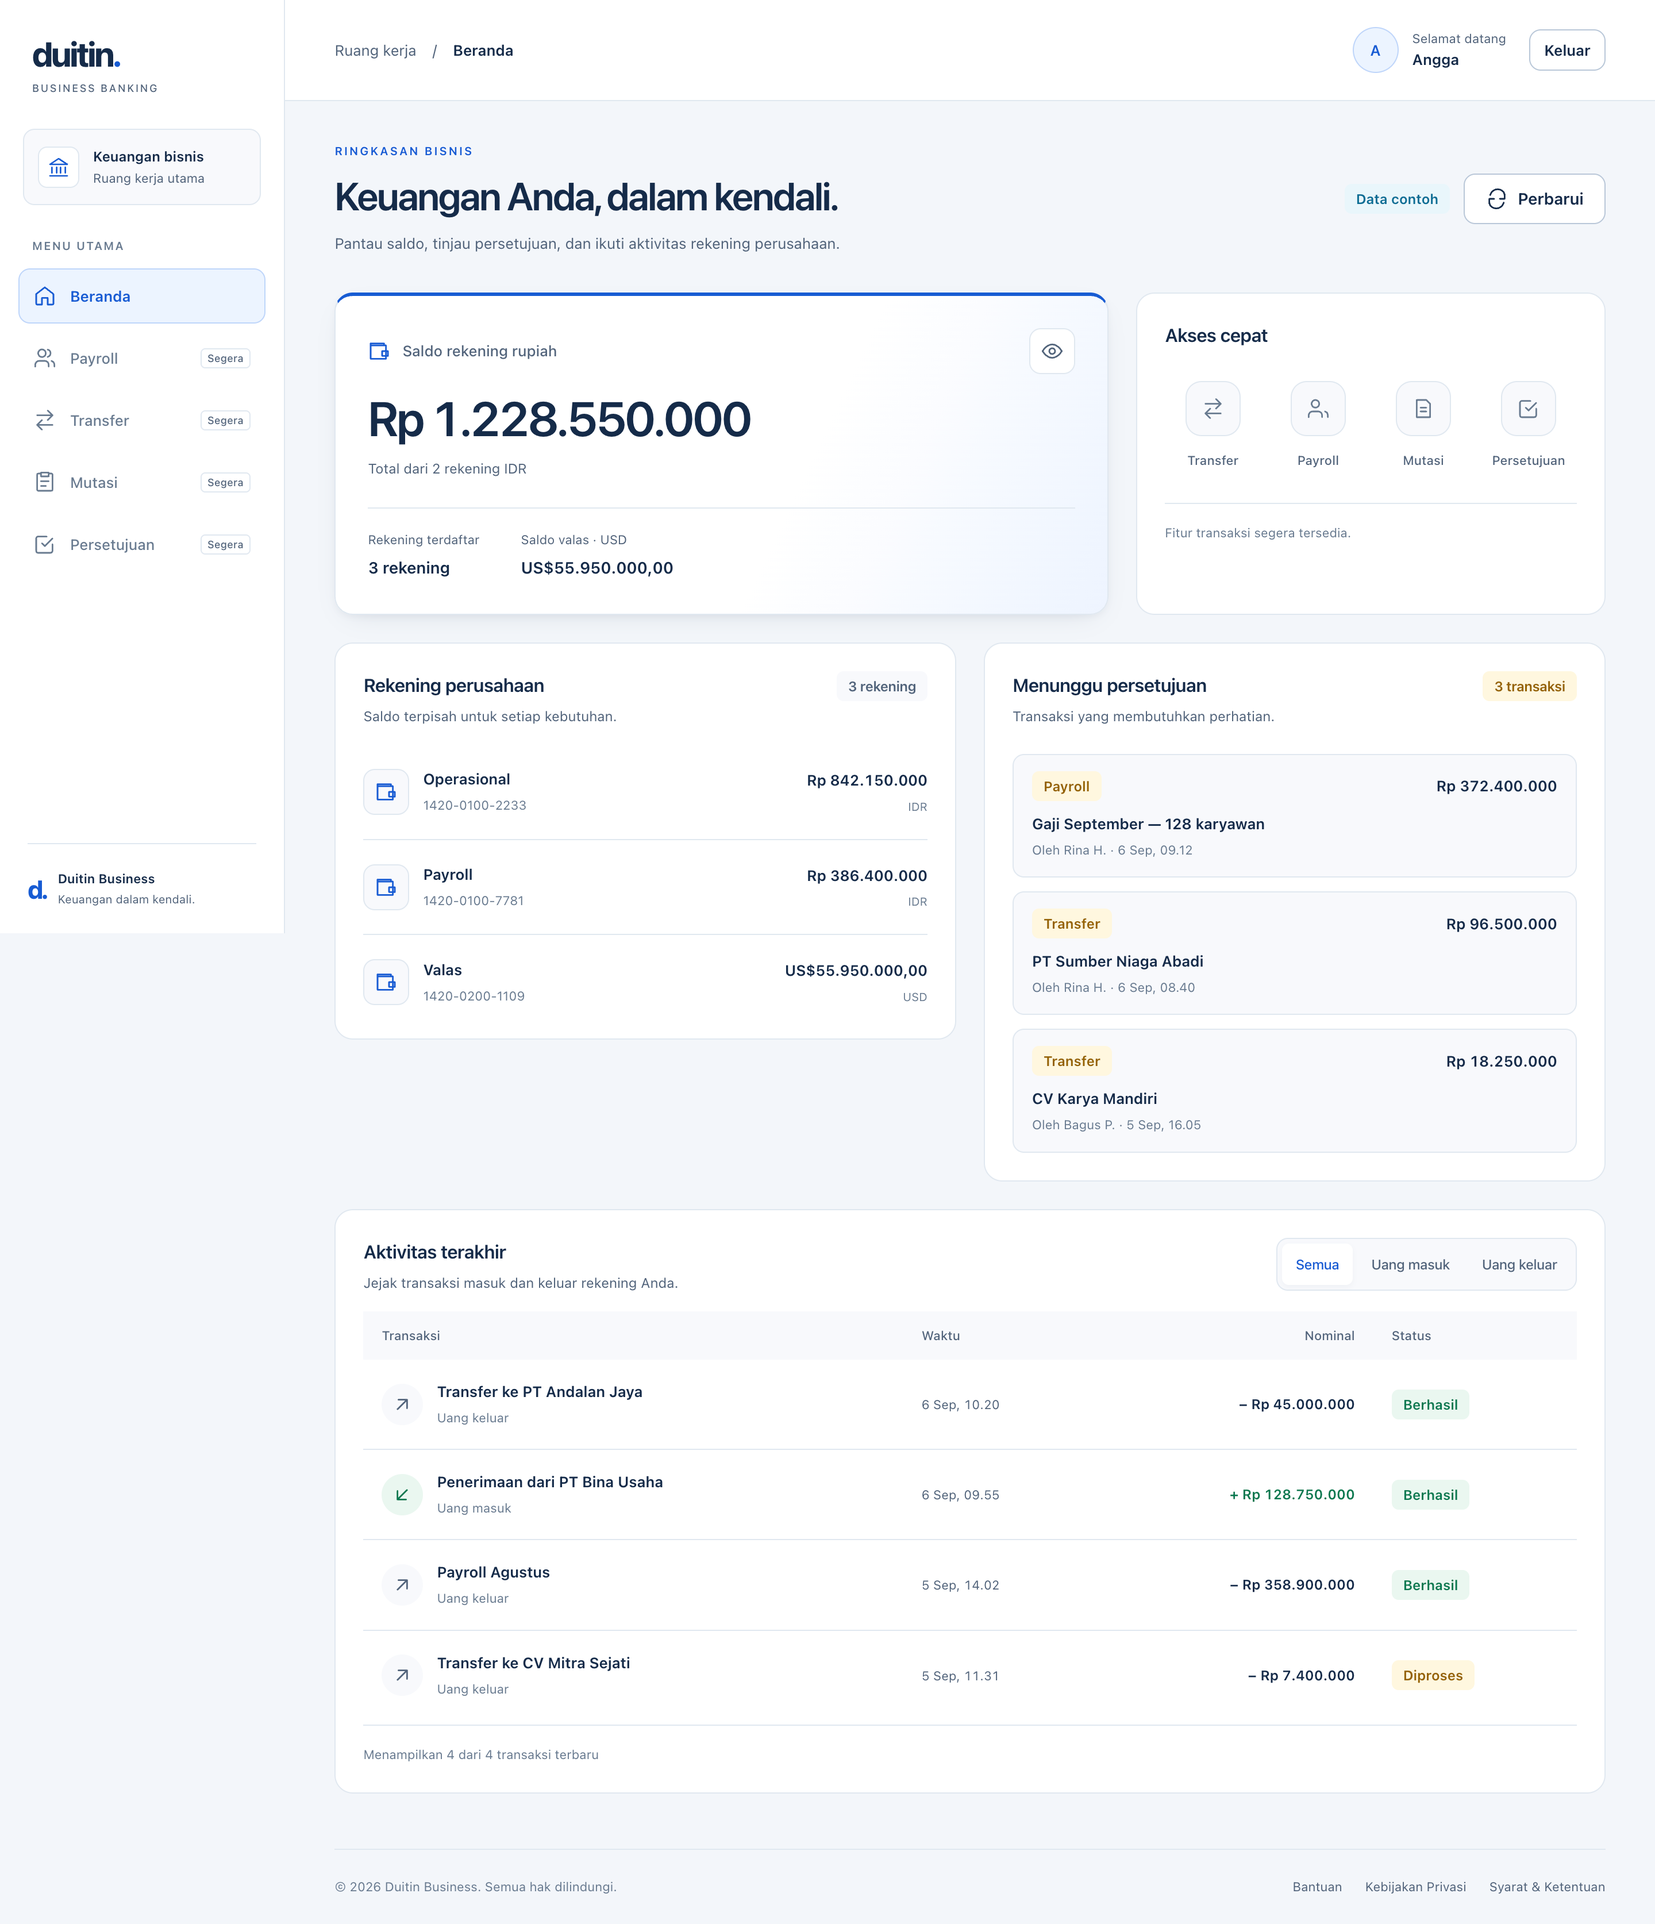
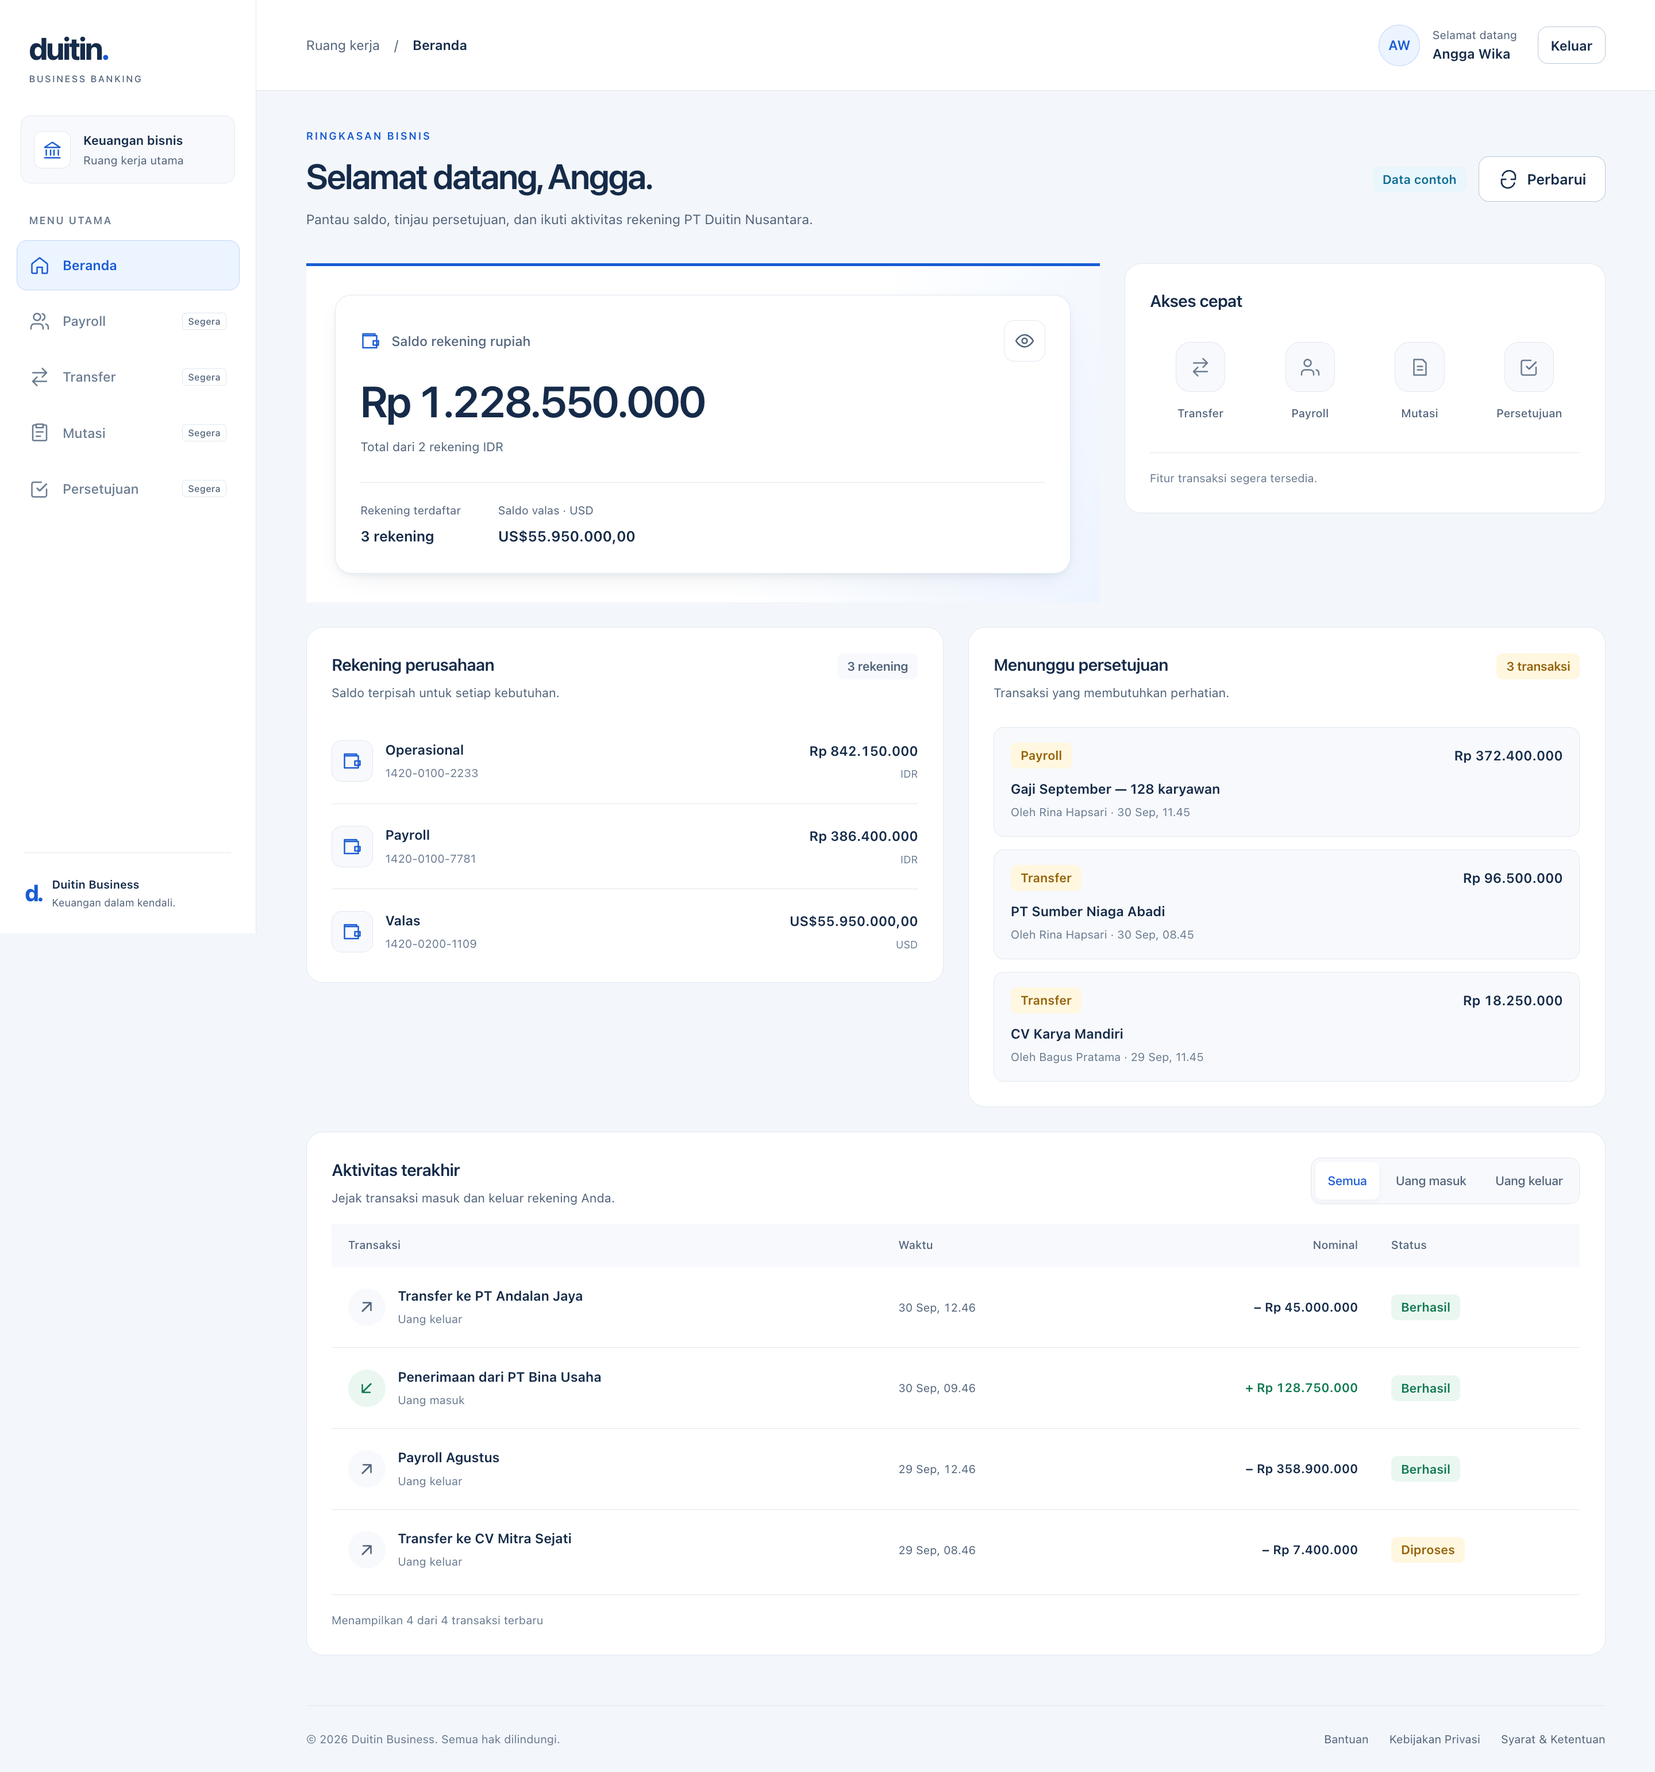
readme

diff --git a/duidtin-ui/README.md b/duidtin-ui/README.md
@@ -177,7 +177,7 @@ Verified in a browser with four local servers (host, layout, design system, auth
 
 ## Architecture flow
 
-Four phases that run at **different times**. The easiest confusion: PHASE 2 and PHASE 3 both run on every navigation, but only PHASE 3 puts anything on screen.
+Five phases that run at **different times**. The two easiest to confuse: PHASE 2 and PHASE 3 both run on every navigation, but only PHASE 3 puts anything on screen. And PHASE 0 runs long before the browser is involved — anything decided there needs a redeploy to change.
 
 ```
 PHASE 0  Build time         → once, during `next build`
@@ -186,6 +186,44 @@ PHASE 2  Per-route preload   → on every navigation (warm-up, NOT render)
 PHASE 3  The actual render   → on every navigation (THIS is what appears on screen)
 PHASE 4  Error handling      → any time something fails, in any phase
 ```
+
+### PHASE 0 — Build time (`next.config.mjs` → `module-federation.config.mjs`)
+
+What is decided here **cannot be changed without a redeploy**. Four things get locked into the bundle:
+
+```
+bun run build
+  │
+  ├─▶ prebuild: (cd ../duidtin-packages/auth && bun install && bun run build) && bun install
+  │     @duidtin/auth is installed through `file:`, and its `dist/` is not in git
+  │     → it must be built FIRST, or the host build fails to resolve the import
+  │
+  └─▶ next build
+        ├─▶ rewrites()              reads REMOTE_*_URL → the proxy rules are WRITTEN into the bundle
+        │     env empty → the rule is never created → that path 404s
+        │
+        ├─▶ NEXT_PUBLIC_API_URL     baked into the configureAuth() call in _app.tsx
+        │
+        ├─▶ resolve.alias           react + react-dom → the HOST's node_modules, for every requester
+        │     without it: "Can't resolve 'react' in …/duidtin-packages/auth/node_modules/zustand/esm"
+        │
+        └─▶ NextFederationPlugin(federationConfig)
+              name: "duidtin_ui" · filename: "static/chunks/remoteEntry.js"
+              remotes: {}   ← EMPTY, resolved in PHASE 1
+              exposes: {}   ← permanently empty, the host is only a consumer
+              shared:  {}   ← nextjs-mf already shares react/react-dom/next on its own
+```
+
+Three consequences that bite often:
+
+| What changed | Is a restart enough? |
+|---|---|
+| `REMOTE_*_URL` | ❌ **redeploy** — rewrites are locked at build time |
+| `NEXT_PUBLIC_API_URL` | ❌ **redeploy** — the value is baked into `configureAuth()` |
+| The remote list in `registry.ts` | ❌ redeploy too, but not because of MF: it is ordinary code that gets bundled |
+| A remote's URL during dev (`?remote-lokal`) | ✅ runtime, kept in `localStorage` — that is what layer B in PHASE 1 is for |
+
+That empty `remotes: {}` is what makes the last row possible: if the remote list lived in this config, adding one remote would mean rebuilding the host. Because it is empty, the list is decided by ordinary JS in PHASE 1 — and that code is free to read `window.location`, `localStorage`, anything, at the moment the page opens.
 
 ### PHASE 1 — Boot (`pages/_app.tsx` → `services/federation/init.ts`)
 
@@ -951,8 +989,11 @@ Browser opens "/"
                           │       → { default: ƒ }
                           │     normalised into { default: ComponentType }
                           │
-                          └─▶ <HomePage />  containing <Card> and <Button>
-                                └─ each remote component mounts → its own loader runs
+                          └─▶ <HomePage /> → <RemoteMount modul="duidtin_feature_beranda/base" />
+                                ├─ (on MOUNT) the loader runs inside useEffect:
+                                │     loadRemote("duidtin_feature_beranda/base")
+                                │       → { mount: ƒ }        ← a FUNCTION, not a component
+                                └─ mount(<div>) → a Vue app is mounted; its contents belong to the remote
 ```
 
 This is the phase that **actually puts components on screen**, and it is **entirely independent of `registry.ts`** — the strings are written by hand, one page file at a time.

diff --git a/README.id.md b/README.id.md
@@ -148,22 +148,23 @@ tab lain
 | auth | `https://super-apps-duidtin-feature-auth.vercel.app` | `/login` di host sudah merender formnya |
 | api | `https://super-apps-duidtin-api-eta.vercel.app` | `/health` → `db: "terhubung"`, login 200 |
 
-Yang masih menggantung: `NEXT_PUBLIC_API_URL` belum diisi di project host dan auth, jadi halaman login produksi masih menembak `http://localhost:4000`.
+Yang masih menggantung: `REMOTE_BERANDA_URL` belum diisi di project host, jadi `/beranda/*` menjawab 404 dan beranda tidak muncul di produksi. Rewrite dikunci saat build, jadi mengisi env-nya harus diikuti redeploy host.
 
 ### Topologi: satu domain, dibedakan path
 
 ```
 https://super-apps-duidtin.vercel.app/                                  → project host
 https://super-apps-duidtin.vercel.app/layout/_next/static/…             → project layout
-https://super-apps-duidtin.vercel.app/beranda/_next/static/…            → project beranda
+https://super-apps-duidtin.vercel.app/beranda/static/…                  → project beranda (Rsbuild, tanpa _next)
 https://super-apps-duidtin.vercel.app/design-system/static/…            → project design-system
 https://super-apps-duidtin.vercel.app/auth/_next/static/…               → project auth
 ```
 
 **Backend TIDAK ikut pola ini.** `duidtin-api` diakses langsung ke domainnya sendiri
 (`https://super-apps-duidtin-api-eta.vercel.app`), bukan lewat rewrite `/api`. Konsekuensinya
-dua: URL-nya diisi lewat env `NEXT_PUBLIC_API_URL` di tiap bundle yang memanggilnya, dan
-origin host harus terdaftar di `CORS_ORIGINS` milik API.
+dua: URL-nya diisi lewat env di tiap bundle yang memanggilnya (`NEXT_PUBLIC_API_URL` di repo
+Next, `PUBLIC_API_URL` di repo Rsbuild), dan origin host harus terdaftar di `CORS_ORIGINS`
+milik API.
 
 Topologi ini **sudah dikunci oleh kode**, bukan pilihan bebas. Di ketiga repo Next, `getBaseFederationUrl()` memulangkan `window.location.origin` saat bukan localhost, jadi di produksi host mencari semua remote di domain yang sama dengan dirinya. Kalau tiap remote dipublish ke domainnya sendiri, host langsung rusak.
 
@@ -177,7 +178,7 @@ Satu origin juga yang membuat sesi sederhana: `localStorage` otomatis dipakai be
 | `REMOTE_LAYOUT_URL` | URL `*.vercel.app` layout | `/layout/:path*` → `…/layout/:path*` |
 | `REMOTE_BERANDA_URL` | URL `*.vercel.app` beranda | `/beranda/:path*` → `…/beranda/:path*` |
 | `REMOTE_AUTH_URL` | `duidtin-feature-auth` | `/auth/:path*` → `…/auth/:path*` |
-| `NEXT_PUBLIC_API_URL` | URL `duidtin-api` | **tanpa rewrite** — dibaca `configureAuth()` di bundle host. Remote yang memanggil API mengisinya sendiri juga (`duidtin-feature-auth`) |
+| `NEXT_PUBLIC_API_URL` | URL `duidtin-api` | **tanpa rewrite** — dibaca `configureAuth()` di bundle host. Tiap remote yang memanggil API mengisinya sendiri: `duidtin-feature-auth` memakai nama yang sama, `duidtin-feature-beranda` memakai **`PUBLIC_API_URL`** karena bundler-nya Rsbuild, bukan Next |
 
 - **Design-system membuang prefiksnya**, karena bukan Next dan tanpa `basePath`: berkasnya ada di root domain Vercel-nya. Layout dan beranda tetap membawa prefiks.
 - **Dev lokal:** env kosong → rewrites tidak aktif → remote diakses langsung lewat port masing-masing.
@@ -300,9 +301,9 @@ Keadaan tiap bagian sekarang:
 |---|---|---|
 | host, layout, design-system | ✅ | ✅ live |
 | remote auth | ✅ login + modal sesi berakhir | ✅ live, `/login` di host sudah merender formnya |
-| beranda | ✅ tampilan, **data masih mock** | ⚠ `REMOTE_BERANDA_URL` belum benar → `/beranda/*` 404 |
-| `duidtin-api` | ✅ auth lengkap, endpoint data belum ada | ✅ live, `/health` → `db: "terhubung"` |
-| sambungan FE → API | — | ⚠ `NEXT_PUBLIC_API_URL` belum diisi di host & auth → login produksi masih ke `localhost:4000` |
+| beranda | ✅ Vue, **data dari `duidtin-api`** | ⚠ project-nya live, tapi `REMOTE_BERANDA_URL` di host belum diisi → `/beranda/*` 404 |
+| `duidtin-api` | ✅ auth + data beranda (`rekening`, `persetujuan`, `aktivitas`) | ✅ live, `/health` → `db: "terhubung"` |
+| sambungan FE → API | — | ✅ host, auth, dan beranda sudah menunjuk API produksi (dicek langsung di bundle-nya) |
 
 ## Alur Arsitektur
 

diff --git a/duidtin-ui/README.id.md b/duidtin-ui/README.id.md
@@ -177,7 +177,7 @@ Terverifikasi di browser dengan empat server lokal (host, layout, design-system,
 
 ## Alur Arsitektur
 
-Empat fase yang jalan di **waktu berbeda**. Yang paling gampang ketuker: FASE 2 dan FASE 3 sama-sama jalan tiap pindah halaman, tapi cuma FASE 3 yang naruh komponen ke layar.
+Lima fase yang jalan di **waktu berbeda**. Dua yang paling gampang ketuker: FASE 2 dan FASE 3 sama-sama jalan tiap pindah halaman, tapi cuma FASE 3 yang naruh komponen ke layar. Dan FASE 0 jalan jauh sebelum browser terlibat — apa pun yang diputuskan di sana butuh deploy ulang untuk diubah.
 
 ```
 FASE 0  Build time         → sekali, saat `next build`
@@ -186,6 +186,44 @@ FASE 2  Preload per route   → tiap pindah halaman (warm-up, BUKAN render)
 FASE 3  Render sebenarnya   → tiap pindah halaman (INI yang muncul di layar)
 FASE 4  Error handling      → kapan aja, kalau ada yang gagal di fase manapun
 ```
+
+### FASE 0 — Build time (`next.config.mjs` → `module-federation.config.mjs`)
+
+Yang diputuskan di sini **tidak bisa diubah tanpa deploy ulang**. Empat hal ikut terkunci ke dalam bundle:
+
+```
+bun run build
+  │
+  ├─▶ prebuild: (cd ../duidtin-packages/auth && bun install && bun run build) && bun install
+  │     @duidtin/auth dipasang lewat `file:`, dan `dist/`-nya tidak masuk git
+  │     → harus dibangun DULU, kalau tidak import-nya gagal saat build host
+  │
+  └─▶ next build
+        ├─▶ rewrites()              baca REMOTE_*_URL → aturan proxy DITULIS ke bundle
+        │     env kosong → aturannya tidak dibuat sama sekali → path itu 404
+        │
+        ├─▶ NEXT_PUBLIC_API_URL     ditanam ke pemanggilan configureAuth() di _app.tsx
+        │
+        ├─▶ resolve.alias           react + react-dom → node_modules HOST, siapa pun yang minta
+        │     tanpa ini: "Can't resolve 'react' in …/duidtin-packages/auth/node_modules/zustand/esm"
+        │
+        └─▶ NextFederationPlugin(federationConfig)
+              name: "duidtin_ui" · filename: "static/chunks/remoteEntry.js"
+              remotes: {}   ← KOSONG, di-resolve FASE 1
+              exposes: {}   ← KOSONG permanen, host cuma consumer
+              shared:  {}   ← nextjs-mf sudah otomatis share react/react-dom/next
+```
+
+Tiga akibat yang sering menggigit:
+
+| Yang diubah | Cukup restart? |
+|---|---|
+| `REMOTE_*_URL` | ❌ **redeploy** — rewrite dikunci saat build |
+| `NEXT_PUBLIC_API_URL` | ❌ **redeploy** — nilainya ke-bake di `configureAuth()` |
+| Daftar remote di `registry.ts` | ❌ redeploy juga, tapi bukan karena MF: isinya kode biasa yang ikut ter-bundle |
+| URL remote saat dev (`?remote-lokal`) | ✅ runtime, disimpan di `localStorage` — itu gunanya lapis B di FASE 1 |
+
+`remotes: {}` yang kosong itulah yang membuat perbedaan terakhir mungkin: kalau daftar remote ditulis di config ini, menambah satu remote berarti rebuild host. Karena kosong, yang menentukan cuma kode JS biasa di FASE 1 — dan kode itu boleh membaca `window.location`, `localStorage`, apa pun, saat halaman dibuka.
 
 ### FASE 1 — Boot (`pages/_app.tsx` → `services/federation/init.ts`)
 
@@ -963,8 +1001,11 @@ Browser buka "/"
                           │       → { default: ƒ }
                           │     dinormalkan jadi { default: ComponentType }
                           │
-                          └─▶ <HomePage />  di dalamnya ada <Card> <Button>
-                                └─ tiap komponen remote mount → loader-nya sendiri jalan
+                          └─▶ <HomePage /> → <RemoteMount modul="duidtin_feature_beranda/base" />
+                                ├─ (saat MOUNT) loader jalan di dalam useEffect:
+                                │     loadRemote("duidtin_feature_beranda/base")
+                                │       → { mount: ƒ }        ← FUNGSI, bukan komponen
+                                └─ mount(<div>) → app Vue dipasang; isinya milik remote
 ```
 
 Ini fase yang **beneran naruh komponen ke layar**, dan dia **total independen dari `registry.ts`** — string-nya ditulis manual per file halaman.

diff --git a/README.md b/README.md
@@ -148,22 +148,23 @@ other tabs
 | auth | `https://super-apps-duidtin-feature-auth.vercel.app` | the host's `/login` already renders its form |
 | api | `https://super-apps-duidtin-api-eta.vercel.app` | `/health` → `db: "terhubung"`, login 200 |
 
-Still outstanding: `NEXT_PUBLIC_API_URL` is not set on the host and auth projects, so the production login page still calls `http://localhost:4000`.
+Still outstanding: `REMOTE_BERANDA_URL` is not set on the host project, so `/beranda/*` answers 404 and the home page never appears in production. Rewrites are baked at build time, so setting the env must be followed by a host redeploy.
 
 ### Topology: one domain, told apart by path
 
 ```
 https://super-apps-duidtin.vercel.app/                                  → host project
 https://super-apps-duidtin.vercel.app/layout/_next/static/…             → layout project
-https://super-apps-duidtin.vercel.app/beranda/_next/static/…            → beranda project
+https://super-apps-duidtin.vercel.app/beranda/static/…                  → beranda project (Rsbuild, no _next)
 https://super-apps-duidtin.vercel.app/design-system/static/…            → design-system project
 https://super-apps-duidtin.vercel.app/auth/_next/static/…               → auth project
 ```
 
 **The backend does NOT follow this pattern.** `duidtin-api` is reached directly on its own
 domain (`https://super-apps-duidtin-api-eta.vercel.app`), not through an `/api` rewrite. Two
-consequences: its URL is supplied through the `NEXT_PUBLIC_API_URL` env in every bundle that
-calls it, and the host's origin must be listed in the API's `CORS_ORIGINS`.
+consequences: its URL is supplied through an env var in every bundle that calls it
+(`NEXT_PUBLIC_API_URL` in the Next repos, `PUBLIC_API_URL` in the Rsbuild one), and the
+host's origin must be listed in the API's `CORS_ORIGINS`.
 
 This topology is **already locked in by the code**, not a free choice. In all three Next repos, `getBaseFederationUrl()` returns `window.location.origin` whenever it is not on localhost, so in production the host looks for every remote on its own domain. Publish each remote to its own domain and the host breaks immediately.
 
@@ -298,9 +299,9 @@ Where each piece stands today:
 |---|---|---|
 | host, layout, design system | ✅ | ✅ live |
 | auth remote | ✅ login + session-expired modal | ✅ live, the host's `/login` already renders its form |
-| beranda | ✅ UI, **data still mocked** | ⚠ `REMOTE_BERANDA_URL` is wrong → `/beranda/*` 404 |
-| `duidtin-api` | ✅ auth complete, no data endpoints yet | ✅ live, `/health` → `db: "terhubung"` |
-| FE → API wiring | — | ⚠ `NEXT_PUBLIC_API_URL` is unset on host & auth → production login still calls `localhost:4000` |
+| beranda | ✅ Vue, **data from `duidtin-api`** | ⚠ its project is live, but `REMOTE_BERANDA_URL` on the host is unset → `/beranda/*` 404 |
+| `duidtin-api` | ✅ auth + home-page data (`rekening`, `persetujuan`, `aktivitas`) | ✅ live, `/health` → `db: "terhubung"` |
+| FE → API wiring | — | ✅ host, auth and beranda all point at the production API (verified in their bundles) |
 
 ## Architecture flow
 
